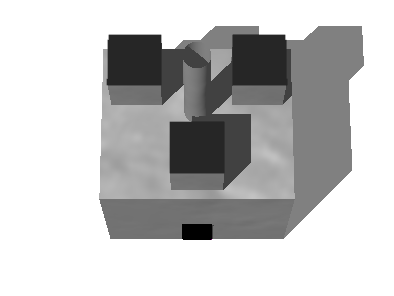
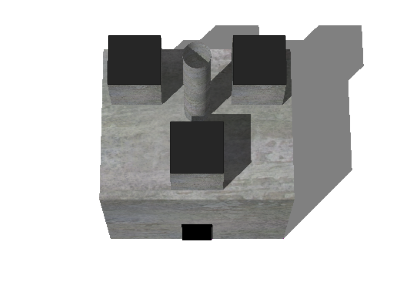
UPDATED Improved buildings for 1950AD.

diff --git a/readme.html b/readme.html
@@ -596,6 +596,7 @@ UPDATED Improved background graphics "clutter".
 UPDATED Skulls/bones background graphics when a sector is nuked.
 UPDATED Improved coastlines for maps.
 UPDATED Improved flag pole graphics and positioning.
+UPDATED Improved buildings for 1950AD.
 UPDATED More subtle player colours.
 UPDATED Sharpened some of the blurry age/people icons.
 UPDATED Improved tower/army map icons.
@@ -1097,7 +1098,7 @@ files in the source archive).</p>
 <li>defeat.ogg, mainscreen.ogg, victory.ogg - by Sindre Froyn, under<a href="http://creativecommons.org/licenses/by/3.0/">CC BY 3.0</a>.</li>
 <li>attacker_ammo.png, "Bomb" icon - from <a href="http://opengameart.org/content/war-on-water-gfx">http://opengameart.org/content&#8203;/war-on-water-gfx</a>, by yd, under <a href="http://creativecommons.org/publicdomain/zero/1.0/">CC0</a>.</li>
 <li>attacker_flying.png, Biplanes - by Macrofeet under <a href="http://creativecommons.org/licenses/by/3.0/">CC BY 3.0</a>, this includes material from http://www.blendswap.com/&#8203;blends/view/78967 "Toy Plane" by Fabien under <a href="http://creativecommons.org/licenses/by/3.0/">CC BY 3.0</a> and http://www.blendswap.com/&#8203;blends/view/49859 "OldMan" by nicolasbravo1235 under <a href="http://creativecommons.org/licenses/by/3.0/">CC BY 3.0</a>.</li>
-<li>attacker_flying.png, Jets - by Macrofeet under <a href="http://creativecommons.org/publicdomain/zero/1.0/">CC0</a>, this includes material from http://www.blendswap.com/&#8203;blends/view/4405 "F22 Fighter Jet" by Natholas under CC0.</li>
+<li>attacker_flying.png, Jets - by Macrofeet under <a href="http://creativecommons.org/publicdomain/zero/1.0/">CC0</a>, this includes material from http://www.blendswap.com/&#8203;blends/view/4405 "F22 Fighter Jet" by Natholas under <a href="http://creativecommons.org/publicdomain/zero/1.0/">CC0</a>.</li>
 <li>attacker_flying.png, defenders.png, icons.png, Nuclear missile - rendered from <a href="http://opengameart.org/content/aim-120a-amraam">http://opengameart.org/content/aim-120a-amraam</a>, by Mystic Mike (Mike Hosker), under GPL v2 (no need to credit me for renderings).</li>
 <li>attacker_walking_0_*.png, attacker_walking_1_*.png, attacker_walking_2_*.png, attacker_walking_3_*.png, attacker_walking_10_*.png, "Crossbow" defender, 10000BC, 2000BC, 1AD, 900AD, 1400AD, 1950AD, 2100AD and unarmed people icons - from <a href="http://opengameart.org/content/lpc-medieval-fantasy-character-sprites">http://opengameart.org/content/lpc-medieval-fantasy-character-sprites</a>, by wulax, under <a href="http://creativecommons.org/licenses/by-sa/3.0/">CC BY-SA 3.0</a> or later, or the GPL v3 or later.</li>
 <li>"Factory" icon, "Stick", "Spear", "Shortbow", "Cauldron of Oil", "Crossbow", "Rifle", "Machine Gun", "Rocket" defenders, 1850AD, 1914AD, 1980AD people icons - from <a href="http://freeciv.wikia.com/wiki/Main_Page">FreeCiv</a>, under the GPL v2.</li>
@@ -1116,8 +1117,8 @@ files in the source archive).</p>
 <li>"Crystal" element icon - from <a href="http://opengameart.org/content/crystal-structure">http://opengameart.org/content/crystal-structure</a>, by Hansjörg Malthaner (http://opengameart.org/users/varkalandar), under <a href="http://creativecommons.org/licenses/by-sa/3.0/">CC BY-SA 3.0</a> or GPL 2.</li>
 <li>"Clockwork" element icon - from <a href="http://opengameart.org/content/clockwork">http://opengameart.org/content/clockwork</a>, by santigo iborra, under GPL 2 or later.</li>
 <li>Use of bricks in icons.png - from <a href="http://opengameart.org/content/brick-wall">http://opengameart.org/content/brick-wall</a>, by JosipKladaric, under <a href="http://creativecommons.org/licenses/by/3.0/">CC BY 3.0</a>.</li>
-<li>rocks.png - from <a href="http://opengameart.org/content/more-isometric-parts">http://opengameart.org/content/more-isometric-parts</a>, by rubberduck, under CC0.</li>
-<li>grasses0X.png, shrub2-01.png, swirl01.png, weed0X.png - from <a href="http://opengameart.org/content/free-isometric-plants-pack">http://opengameart.org/content&#8203;/free-isometric-plants-pack</a>, by rubberduck, under CC0.</li>
+<li>rocks.png - from <a href="http://opengameart.org/content/more-isometric-parts">http://opengameart.org/content/more-isometric-parts</a>, by rubberduck, under <a href="http://creativecommons.org/publicdomain/zero/1.0/">CC0</a>.</li>
+<li>grasses0X.png, shrub2-01.png, swirl01.png, weed0X.png - from <a href="http://opengameart.org/content/free-isometric-plants-pack">http://opengameart.org/content&#8203;/free-isometric-plants-pack</a>, by rubberduck, under <a href="http://creativecommons.org/publicdomain/zero/1.0/">CC0</a>.</li>
 <li>grave1.png - rendered from http://opengameart.org/content/medieval-props-textured , by Lamoot and Clint Bellanger, under <a href="http://creativecommons.org/licenses/by-sa/3.0/">CC BY-SA 3.0</a> or later (no need to credit me for renderings).</li>
 <li>"rock" element icon - modified from <a href="http://opengameart.org/content/isometric-64x64-outside-tileset">http://opengameart.org/content&#8203;/isometric-64x64-outside-tileset</a>, by Yar, under <a href="http://creativecommons.org/licenses/by/3.0/">CC BY 3.0</a>.</li>
 <li>"tower" icon - from <a href="http://opengameart.org/content/old-stone-buildings">http://opengameart.org/content/old-stone-buildings</a>, by blarumyrran AT gmail DOT com, under <a href="http://creativecommons.org/publicdomain/zero/1.0/">CC0</a>.</li>
@@ -1145,7 +1146,7 @@ files in the source archive).</p>
 <li>"Flag" icons - from <a href="http://commons.wikimedia.org/wiki/File:Animated-Flag-Denmark.gif">http://commons.wikimedia.org/&#8203;wiki/File:Animated-Flag-Denmark.gif</a>, by Dave Johnston, public domain.</li>
 <li>"Tick" icon - from <a href="http://opengameart.org/content/gui-items">http://opengameart.org/content/gui-items</a>, by Scribe, under <a href="http://creativecommons.org/licenses/by/3.0/">CC BY 3.0 or later</a>.</li>
 <li>"Trash" icon - from <a href="http://commons.wikimedia.org/wiki/File:Gnome-edit-delete.svg">http://commons.wikimedia.org/&#8203;wiki/File:Gnome-edit-delete.svg</a>, by GNOME icon artists, under the GPL v2 or later.</li>
-<li>player_heads_alliance.png, player_heads_select.png - by Macrofeet under <a href="http://creativecommons.org/licenses/by/3.0/">CC BY 3.0</a>, this includes material from http://www.blendswap.com/blends/view/41795 (red) by JeannotLandry under <a href="http://creativecommons.org/licenses/by/3.0/">CC BY 3.0</a>; http://www.blendswap.com/blends/view/6434 (green) by conejo under CC0; http://www.blendswap.com/blends/view/56841 (yellow) by CerFriBar under CC0; http://www.blendswap.com/blends/view/14172 (blue) by Mennoknight under CC0.</li>
+<li>player_heads_alliance.png, player_heads_select.png - by Macrofeet under <a href="http://creativecommons.org/licenses/by/3.0/">CC BY 3.0</a>, this includes material from http://www.blendswap.com/blends/view/41795 (red) by JeannotLandry under <a href="http://creativecommons.org/licenses/by/3.0/">CC BY 3.0</a>; http://www.blendswap.com/blends/view/6434 (green) by conejo under <a href="http://creativecommons.org/publicdomain/zero/1.0/">CC0</a>; http://www.blendswap.com/blends/view/56841 (yellow) by CerFriBar under <a href="http://creativecommons.org/publicdomain/zero/1.0/">CC0</a>; http://www.blendswap.com/blends/view/14172 (blue) by Mennoknight under <a href="http://creativecommons.org/publicdomain/zero/1.0/">CC0</a>.</li>
 <li>font.png , font_large.png - "TechBreak" from <a href="http://opengameart.org/content/the-collection-of-8-bit-fonts-for-grafx2-r2">http://opengameart.org/content/the-collection-of-8-bit-fonts-for-grafx2-r2</a>, by usr_share, under <a href="http://creativecommons.org/publicdomain/zero/1.0/">CC0</a>.</li>
 <li>The rendered building graphics use texture maps from:<ul>
 <li>Tileable5.png, Tileable9.png, Tileable10.png - from <a href="http://opengameart.org/content/117-stone-wall-tilable-textures-in-8-themes">http://opengameart.org/content/117-stone-wall-tilable-textures-in-8-themes</a>, by p0ss, under the GPL v2.</li>
@@ -1154,6 +1155,7 @@ files in the source archive).</p>
 <li>bricks2.jpg - from <a href="http://opengameart.org/content/brick-texture">http://opengameart.org/content/brick-texture</a>, by Bart K, under the GPL v2, GPL v3, and <a href="http://creativecommons.org/licenses/by-sa/3.0/">CC BY-SA 3.0</a>.</li>
 <li>brick_seier.jpg - from <a href="http://www.flickr.com/photos/seier/4340689010/">http://www.flickr.com/photos/seier/4340689010/</a> by "seier+seier" under <a href="http://creativecommons.org/licenses/by/2.0/">CC BY 2.0</a>.</li>
 <li>Shingle.png - from <a href="http://opengameart.org/content/dims-enviromental-and-architectural-textures">http://opengameart.org/content/dims-enviromental-and-architectural-textures</a>, by Dim, under <a href="http://creativecommons.org/licenses/by/3.0/">CC BY 3.0</a>.</li>
+<li>hg07.png - from <a href="http://opengameart.org/content/20-textures-for-metal-texture-creation-sets">http://opengameart.org/content/20-textures-for-metal-texture-creation-sets</a>, by rubberduck, under <a href="http://creativecommons.org/publicdomain/zero/1.0/">CC0</a>.</li>
 </ul></li>
 <li>starfield.jpg - from <a href="http://opengameart.org/content/solar-system">http://opengameart.org/content/solar-system</a>, by ac3raven, under <a href="http://creativecommons.org/licenses/by-sa/3.0/">CC BY-SA 3.0</a>.</li>
 <li><a href="http://www.libsdl.org/">SDL</a>, <a href="http://www.libsdl.org/projects/SDL_image/">SDL_image</a> and <a href="http://www.libsdl.org/projects/SDL_mixer/">SDL_mixer</a>, all under the LGPL.</li>
